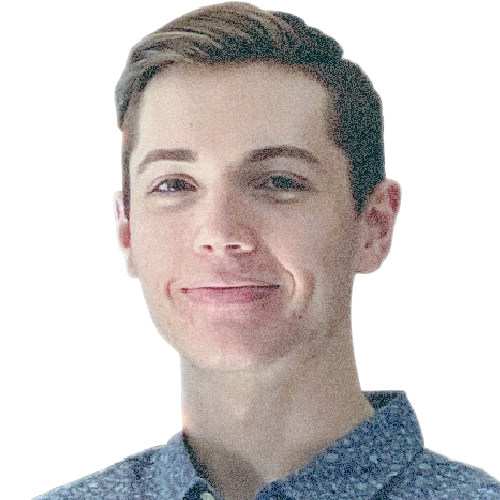
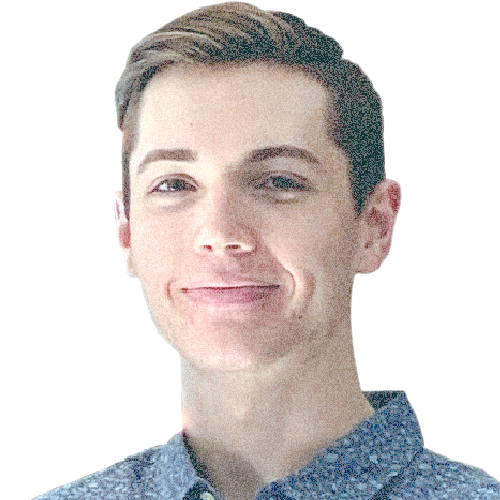
profile pic update

diff --git a/assets/css/main.css b/assets/css/main.css
@@ -16,7 +16,7 @@
 	--c3: #9093a2; /* text */
 	--c3-alpha: #9093a260; /* (lowered alpha version of c3) link underlines */
 	--c4: #bdc7c9; /* top bar (appears on mobile / zoom in) */
-	--c5: #d4be95; /* feature icons (special bullet points) */
+	--c5: #e4d0a5; /* feature icons (special bullet points) */
 }
 
 html, body, div, span, applet, object,
@@ -2211,7 +2211,7 @@ input, select, textarea {
 				border-radius: 100%;
 				display: block;
 				width: 100%;
-				border: 5px solid var(--c1-alpha);
+				border: 3px solid var(--c1-alpha);
 			}
 
 		.image.main {

diff --git a/index.html b/index.html
@@ -16,7 +16,7 @@
 		<!-- Header -->
 			<section id="header" style="background-image: url(images/sidebar.jpg); background-size: cover;">
 				<header>
-					<span class="image avatar"><a href="#"><img src="images/profilepic.png" alt="Profile Picture" /></a></span>
+					<span class="image avatar"><a href="#" class="icon"><img src="images/profilepic.png" alt="Profile Picture" /></a></span>
 					<h1 id="logo">Ryan Matthews</h1>
 					<p>TAMU Class of 2022<br />
 					Computer Science & Game Dev</p>
